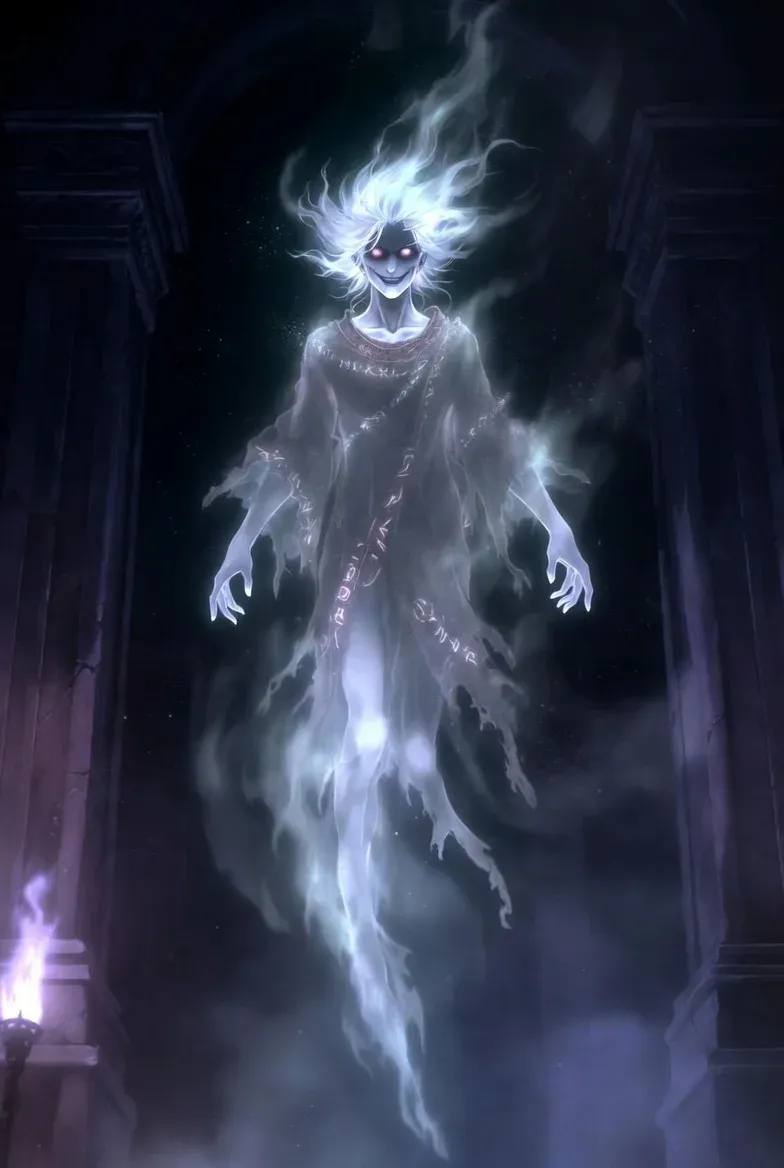
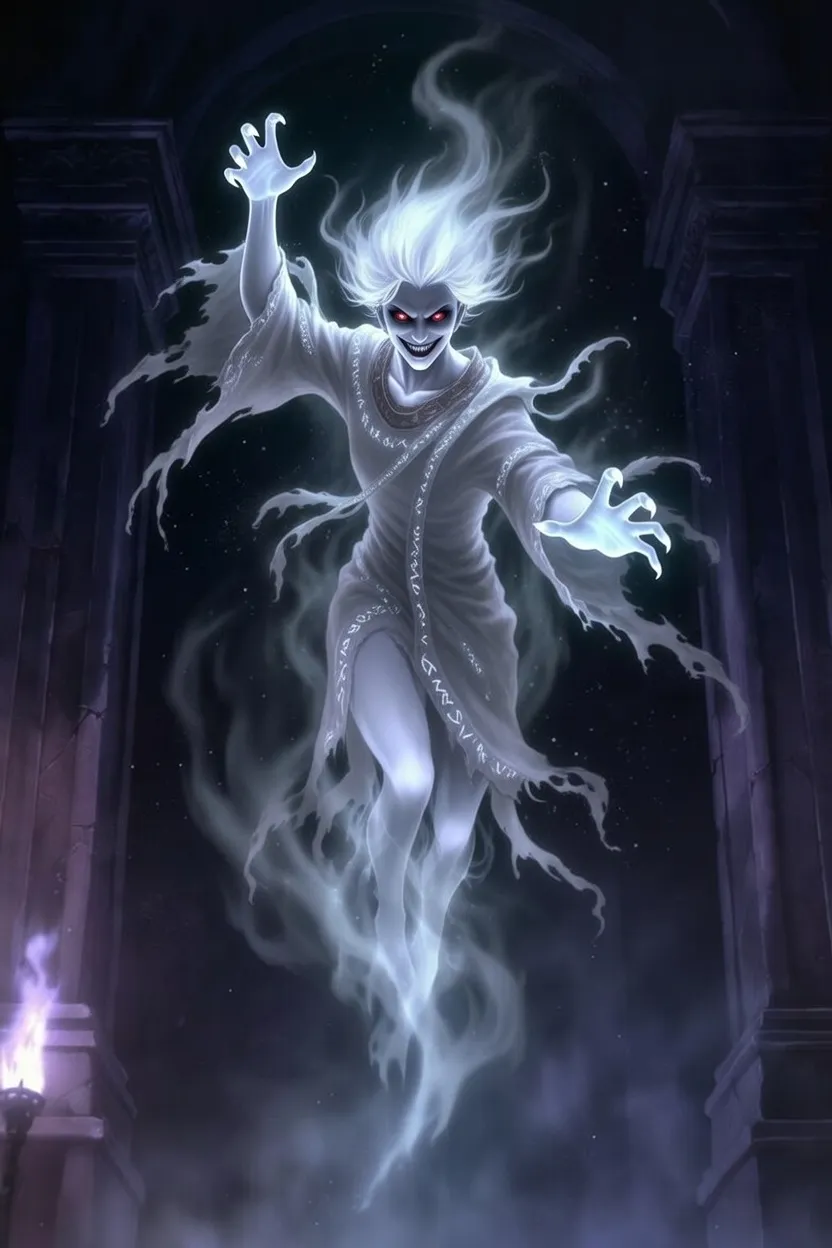
assets

diff --git a/assets/js/dungeon.js b/assets/js/dungeon.js
@@ -25,6 +25,8 @@ var currentDmg = 0;
 var currentSPD = 1;
 var currentDEF = 0;
 var currentHP = 0;
+var atkInterval;
+var hitInterval;
 function populateDungeonFloors(){
     let floorHTML = '';
     let floor = 1;
@@ -87,6 +89,19 @@ function initDungeonCanvas(){
 
     // Initial draw
     drawHealthBars(canvas,ctx, soul.hpPoints, enemyMob.hpPoints,enemyMob.name);
+}
+function initFightMenu(){
+    $('#EName').text(enemyMob.name);
+    $('#currentFloor').text(currentFloor);
+    let roomText = currentFloor % 10 == 0 ? (currentFloor == 50 ? "Apex room" : "Boss room") : `Room ${currentRoom}`;
+    $('#currentRoom').text(roomText);
+    $('#currentHP').text(calcHppoints);
+    $('#maxHP').text(calcHppoints);
+    $('#currentEHP').text(enemyMob.hpPoints);
+    $('#maxEHP').text(enemyMob.hpPoints);
+    $('#fightMenu').removeClass('d-none');
+    $('#PActB').css({'animation':`actionLoading ${calcAtkspd}s infinite`})
+    atkInterval = setInterval(function(){attack()},calcAtkspd*1000);
     
 
 }
@@ -135,11 +150,11 @@ async function updateDungeonState(){
 }
 async function startRun(){
     clearDungeonMenus();
-    currentATK = soul.atk + loadOuttotalAtk;
-    currentSPD = soul.spd + loadOuttotalSpd;
-    currentASPD = soul.spd + loadOuttotalSpd >= 430 ? 0.14 : 1 - ((soul.spd + loadOuttotalSpd) * 0.002);;
-    currentDEF = soul.def + loadOuttotalDef;
-    currentHP = soul.hpPoints + loadOuttotalHP*5;
+    currentATK = calcAtk;
+    currentSPD = calcSpd;
+    currentASPD = calcAtkspd;
+    currentDEF = calcDef;
+    currentHP = calcHppoints;
     currentRoom = 0; 
     currentMobRate +=  refinerMobSpawnBuff();
     //hide encounter menus
@@ -207,9 +222,10 @@ async function nextRoom() {
                 let bg = enemyMob.img;
                 $('#dungeonCanvas').show();
                 $('#dungeonPanel').css({'background-image':`url('${bg}')`})
-                initDungeonCanvas();
+                initFightMenu();
+                // initDungeonCanvas();
                 // testing
-                collectedGold += enemyMob.gold;
+                // collectedGold += enemyMob.gold;
             }else if(encounterRoll > enemyEncounter && encounterRoll <= maidenEncounter){
                 setActiveMaiden();
                 $('#maidenMenu').removeClass('d-none');
@@ -254,20 +270,56 @@ function bossFight(){
     let isBoss = currentFloor % 10 == 0 && currentFloor != 50;
     spawnMob(isBoss,isApex);
     let bg = enemyMob.img;
-    $('#dungeonCanvas').show();
+    // $('#dungeonCanvas').show();
     $('#dungeonPanel').css({'background-image':`url('${bg}')`})
-    initDungeonCanvas();
+    // initDungeonCanvas();
+    initFightMenu();
 }
 function triggerTransition(){
-    console.log('transition triggered')
     $('#transitionOverlay').addClass('transitioning');
-    setTimeout(function(){$('#transitionOverlay').removeClass('transitioning');}, 500)
+    setTimeout(function(){$('#transitionOverlay').removeClass('transitioning');}, 1100)
+}
+function triggerHitTaken(){
+    $('#hitOverlay').addClass('transitioning');
+    setTimeout(function(){$('#hitOverlay').removeClass('transitioning');}, 500)
+}
+function triggerReward(){
+    $('#rewardOverlayCont').css({'left': 0});
 }
 function clearDungeonMenus(){
     console.log('dungeon menu cleared')
-    $('#nextFloorMenu,#maidenMenu, #thiefMenu, #chestMenu, #statueMenu, #bossMenu, #apexMenu, .portal-menu').addClass('d-none');
+    $('#fightMenu, #nextFloorMenu,#maidenMenu, #thiefMenu, #chestMenu, #statueMenu, #bossMenu, #apexMenu, .portal-menu').addClass('d-none');
 }
 function changeDungeonPanelBG(bg){
     console.log('dungeon bg changed to ',bg)
     $('#dungeonPanel').removeClass('next maiden thief statue chest bossPortal apexPortal').addClass(bg).removeAttr('style')
+}
+function attack(){
+    if(enemyMob.hpPoints > 0){
+        $('#dungeonPanel').addClass('shake');
+        setTimeout(function(){$('#dungeonPanel').removeClass('shake');},120);
+        
+        console.log("enemyMob.hpPoints",enemyMob.hpPoints)
+        let baseDmg = Math.max(calcAtk - enemyMob.def, calcAtk * soul.minDmg);
+        let randomMultiplier = 0.9 + Math.random() * 0.2;  // 0.9 ~ 1.1
+        let finalDmg = Math.floor(baseDmg * randomMultiplier);
+        let reducedMobHp = Math.max(0, enemyMob.hpPoints - finalDmg);
+        console.log("baseDmg:",baseDmg)
+        console.log("randomMultiplier:",randomMultiplier)
+        console.log("finalDmg:",finalDmg)
+        console.log("reducedMobHp:",reducedMobHp)
+        // bar width = current HP / max HP * 100
+        let barWidth = (reducedMobHp / enemyMob.hpPoints) * 100;
+        // reduce HP but not below 0
+        enemyMob.hpPoints = reducedMobHp
+        $('#currentEHP').text(enemyMob.hpPoints);
+        $('#EHB').css({'width': `${barWidth}%`});
+    }else{
+        clearInterval(atkInterval);
+        $('#PActB').removeAttr('style');
+        collectedGold += enemyMob.gold;
+        triggerReward()
+    }
+    
+    // clearInterval(hitInterval);
 }

diff --git a/index.html b/index.html
@@ -545,15 +545,44 @@
     </div>
     <div class="offcanvas offcanvas-end" tabindex="-1" id="dungeonPanel" aria-labelledby="dungeonPanel" refinerPreviewId>
         <canvas id="dungeonCanvas" class="w-100 h-100"></canvas>
-        <div class="offcanvas-header">
+        <!-- <div class="offcanvas-header">
             <button class="icon-btn ms-auto" data-bs-dismiss="offcanvas" aria-label="Close">
                 <i class="fa-solid fa-xmark"></i>
             </button>
             <button class="icon-btn" id="testDungeonBtn">
                 <i class="fa-solid fa-plus"></i>
             </button>
-        </div>
-        <div class="offcanvas-body d-flex flex-column" >
+        </div> -->
+        
+        <div class="offcanvas-body d-flex flex-column vh-100" >
+            <div class="d-flex flex-column h-100 w-100 align-items-center justify-content-center d-none" id="fightMenu">
+                <div class="pos-rel w-100 text-light">
+                    <div class="pos-rel" id="EHBCont">
+                        <div class="pos-a text-center" id="EHB"></div>
+                        <div class="d-flex pos-a align-items-center justify-content-center text-light w-100 h-100">
+                            <span id="currentEHP"></span> / <span id="maxEHP"></span>
+                        </div>
+                    </div>
+                    
+                </div>
+                <h3 class="mt-2 mb-auto icon-btn-text" id="EName"></h3>
+                
+                <div class="d-flex align-items-center justify-content-center text-light w-100 mt-auto">
+                    <div class="pos-rel" id="PHBCont">
+                        <div class="pos-a player-meter" id="PHB"></div>
+                        <div class="d-flex pos-a align-items-center justify-content-center text-light w-100 h-100">
+                            <span id="currentHP"></span> / <span id="maxHP"></span>
+                        </div>
+                    </div>
+                    <div class="icon-btn-text flex-grow-1 text-center">Floor <span id="currentFloor"></span>&nbsp;<span id="currentRoom"></span></div>
+                    <div class="pos-rel" id="PActCont">
+                        <div class="pos-a player-meter" id="PActB"></div>
+                        <div class="d-flex pos-a align-items-center justify-content-center text-light w-100 h-100">
+                            <img src="assets/icons/crossed-swords-white.svg" alt="" style="width: 30px; height: 30px;">
+                        </div>
+                    </div>
+                </div>
+            </div>
             <div class="d-flex flex-column h-100 align-items-center justify-content-center d-none" id="nextFloorMenu">
                 <h1>Go deeper!</h1>
                 <button class="icon-btn next-room-btn my-3 small-text">
@@ -693,6 +722,20 @@
         </div>
         <div id="transitionOverlay" class="w-100 h-100">
 
+        </div>
+        <div id="hitOverlay" class="w-100 h-100">
+
+        </div>
+        
+    </div>
+    <div id="rewardOverlayCont" class="vw-100 vh-100">
+        <div id="rewardOverlay" class="w-100 h-100 d-flex align-items-center justify-content-center">
+            <div id="rewardPanel" class="section-container w-60 text-center">
+                <h3>You received</h3>
+                <span id="rewadGold"></span><br>
+                <span id="rewardMats"></span><br>
+                <span id="rewardEqpt"></span>
+            </div>
         </div>
     </div>
     

diff --git a/assets/css/main.css b/assets/css/main.css
@@ -264,14 +264,31 @@ h1,h2,h3,h4,h5,#eqpPreviewName{
     }
 
 /* DUNGEON */
-    #dungeonCanvas, #transitionOverlay { position: absolute; inset: 0; z-index: 1046; display: none;}
+    #dungeonCanvas, #transitionOverlay, #hitOverlay { position: absolute; inset: 0; z-index: 1046; display: none;}
     #dungeonPanel.thief {background: url('../img/Backgrounds/thief.webp') center center / cover no-repeat;}
     #dungeonPanel.statue {background: url('../img/Backgrounds/statue.webp') center center / cover no-repeat;}
     #dungeonPanel.chest {background: url('../img/Backgrounds/chest.webp') center center / cover no-repeat;}
     #dungeonPanel.next {background: url('../img/Backgrounds/next.webp') center center / cover no-repeat;}
     #dungeonPanel.bossPortal {background: url('../img/Portals/boss.webp') center center / cover no-repeat;}
     #dungeonPanel.apexPortal {background: url('../img/Portals/apex.webp') center center / cover no-repeat;}
-    #transitionOverlay{background-color: black;z-index: 1047; display:block; opacity:  0;}
+    #transitionOverlay, #initOverlay{background-color: black;z-index: 1047; display:block; opacity:  0;}
     #transitionOverlay.transitioning {animation: overlayTransition 1s forwards;}
+    #hitOverlay{background-color: rgb(214, 0, 0);}
+    #rewardOverlayCont{position: fixed; left: 100vw; top: 0; z-index: 2000; transition: all 0.3s;background-color: rgba(0, 0, 0, 0.5);}
+    /* #rewardOverlay{ position: absolute;z-index: 1047;} */
+    #hitOverlay.transitioning {animation: overlayTransition 0.1s forwards;}
     .next-room-btn{box-shadow: 0px 0px 40px 2px rgba(0,0,0, 0.5) inset;}
+    #PHBCont, #EHBCont, #PActCont{
+        background: #9c9797;
+        background: radial-gradient(circle, rgba(156, 151, 151, 1) 0%, rgba(115, 108, 108, 1) 51%, rgba(69, 69, 69, 1) 100%);
+        overflow: hidden;
+        border: 2px solid white;
+    }
+    #PHBCont, #PActCont{border-radius: 50%; width: 100px; height: 100px; top: 0; left: 0;}
+    #EHBCont{border-radius: 10px; height: 35px; width: 100%; }
+    .player-meter{ bottom: 0;}
+    #PHB, #EHB{transition: all 0.1s;background-color: rgb(199, 0, 0); width: 100%; height: 100%; display: flex; align-items: center; justify-content: center;}
+    #EHB{left: 0;}
+    #PActB{width: 100%; height: 0%; background-color: rgba(0, 0, 0, 0.5); border-top: 3px solid purple; }
+
 /* DUNGEON */

diff --git a/assets/js/mobs.js b/assets/js/mobs.js
@@ -52,6 +52,7 @@ var dungeonMobs = [
     //ghosts
         {name: "Sacrifice", species:"ghosts", img: mob_path+"Ghosts/1.webp", category:"generic", baseStats: 30, increment: 6, baseGold:50, distr:statDistr.atk},
         {name: "Sacrifice", species:"ghosts", img: mob_path+"Ghosts/2.webp", category:"generic", baseStats: 30, increment: 6, baseGold:50, distr:statDistr.spd},
+        {name: "Noble Sacrifice", species:"ghosts", img: mob_path+"Ghosts/4.webp", category:"generic", baseStats: 30, increment: 6, baseGold:50, distr:statDistr.spd},
         {name: "Haunted Doll", species:"ghosts", img: mob_path+"Ghosts/3.webp", category:"generic", baseStats: 30, increment: 6, baseGold:35, distr:statDistr.xatk},
     //goblins
         {name: "Goblin", species:"goblins", img: mob_path+"Goblins/1.webp", category:"generic", baseStats: 30, increment: 6, baseGold:50, distr:statDistr.spd},

diff --git a/assets/css/animations.css b/assets/css/animations.css
@@ -13,6 +13,10 @@
     from{opacity: 1;}
     to{ opacity: 0;}
 }
+@keyframes actionLoading{
+    from{height: 0%;}
+    to{height: 100%;}
+}
 .shake {
   animation: shake 0.1s;
 }
